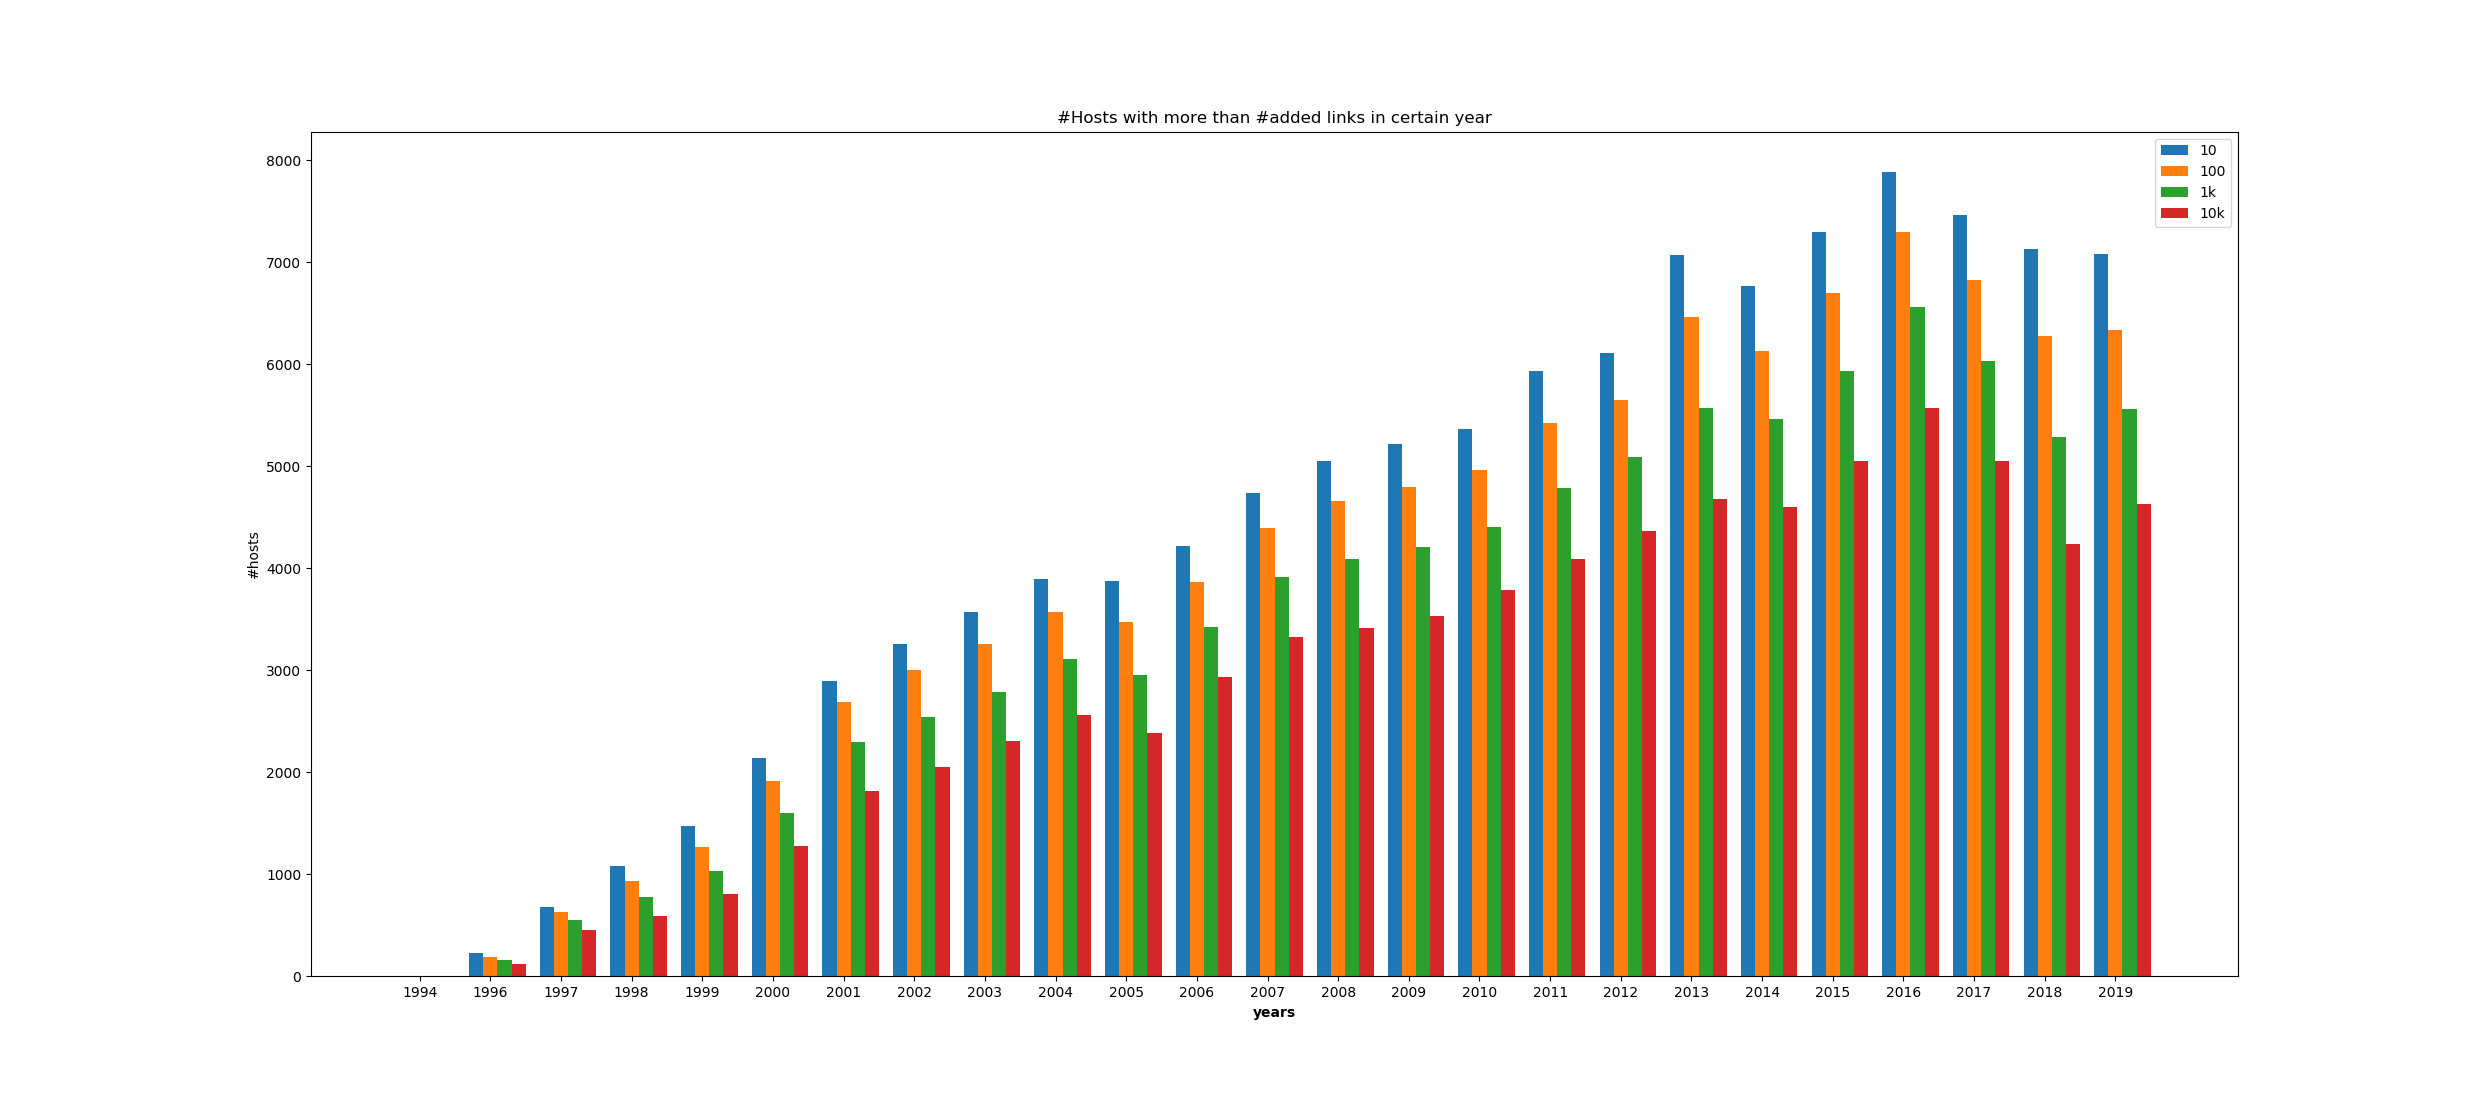
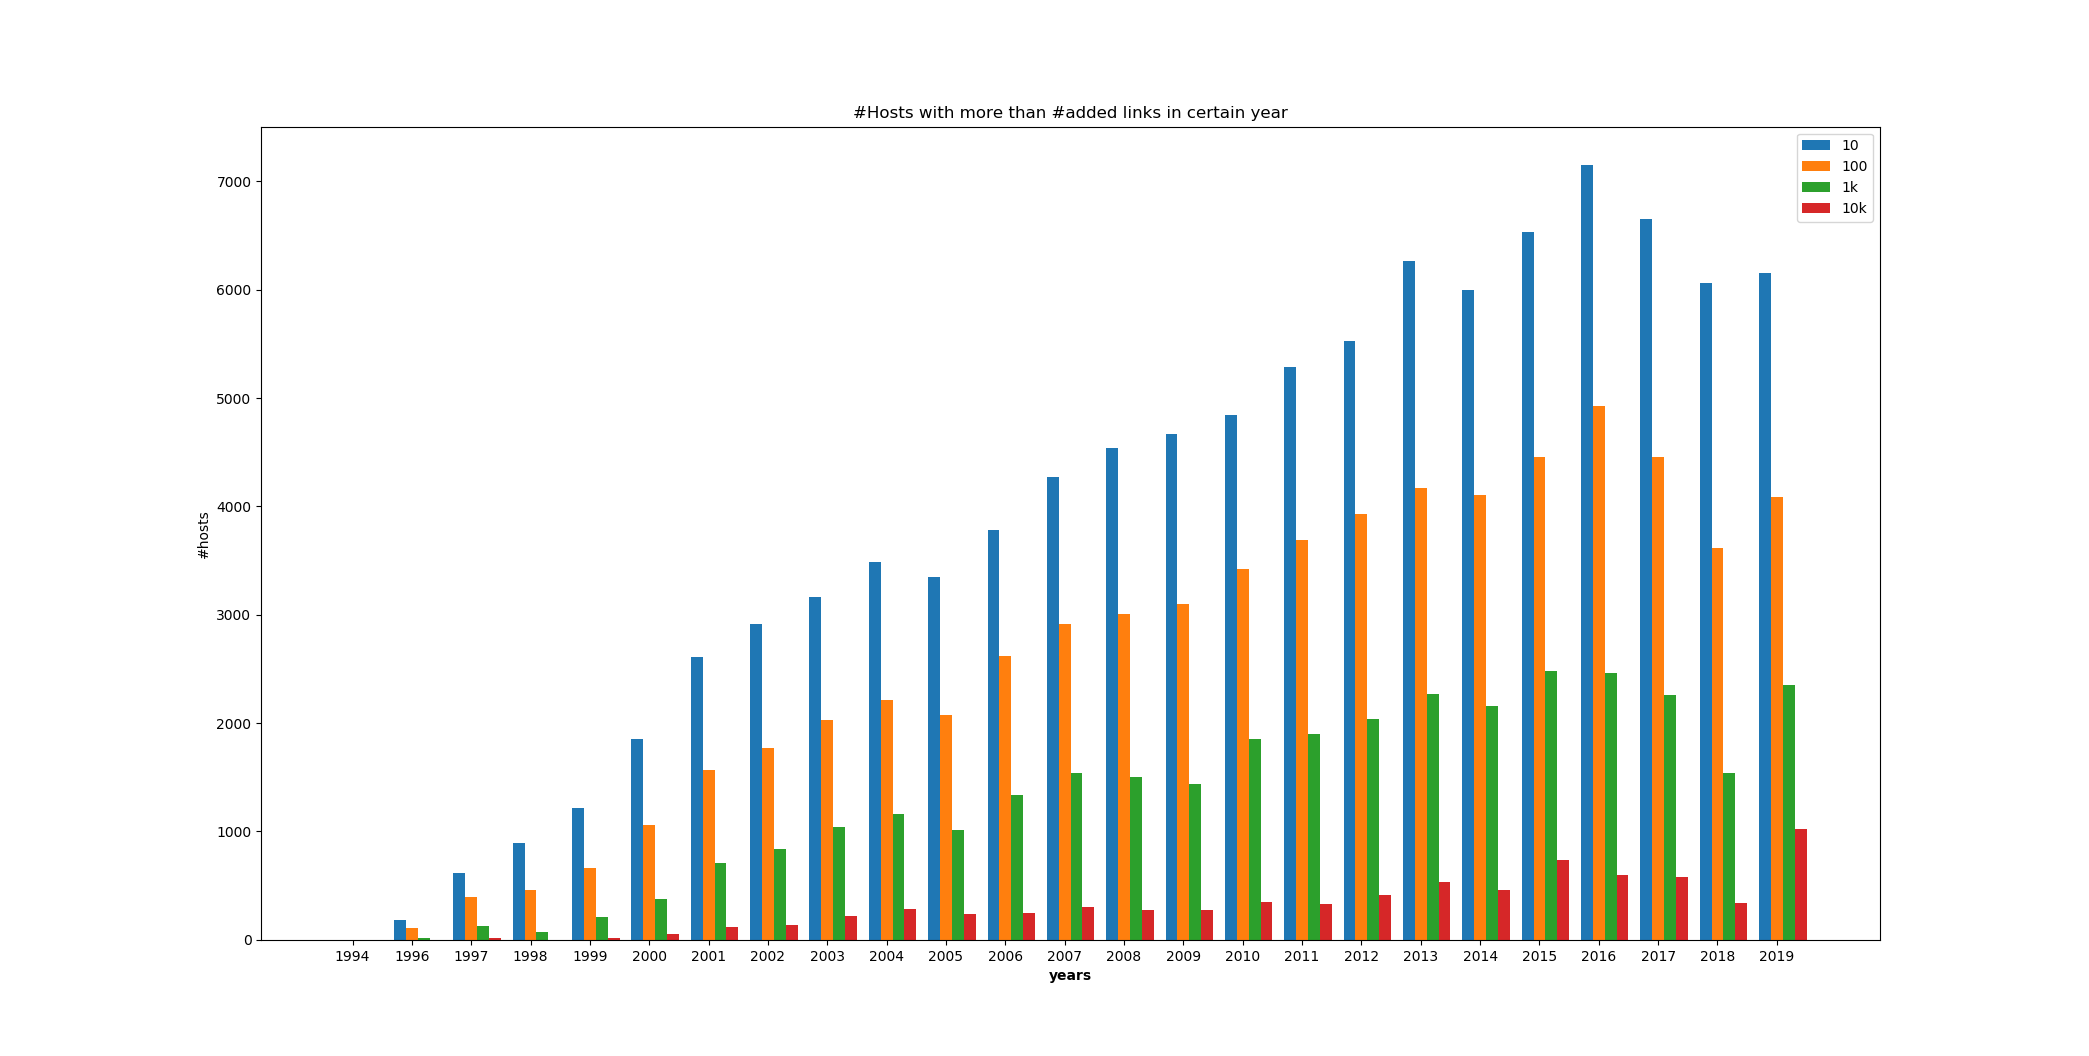
Fix log error

diff --git a/rw_sampling/host_year.py b/rw_sampling/host_year.py
@@ -227,7 +227,7 @@ def plot_add_links():
     exact = []
     for obj in db.added_links.find():
         hostname, year, added_links = obj['hostname'], int(obj['year']), int(obj['added_links'])
-        end_idx = int(math.log(added_links)) if int(math.log(added_links)) <= 4 else 4
+        end_idx = int(math.log10(added_links)) if int(math.log10(added_links)) <= 4 else 4
         for i in range(0, end_idx):
             more[i].setdefault(year, set())
             more[i][year].add(hostname)
@@ -245,8 +245,6 @@ def plot_add_links():
     plt.ylabel('#hosts')
     plt.title('#Hosts with more than #added links in certain year')
     plt.show()
-    sanity = list(filter(lambda x: x > 10e4, exact))
-    print(len(sanity) / len(exact))
     plot.plot_CDF([exact], show=False)
     plt.xscale('log')
     plt.title('{Year, Host} #added links')
